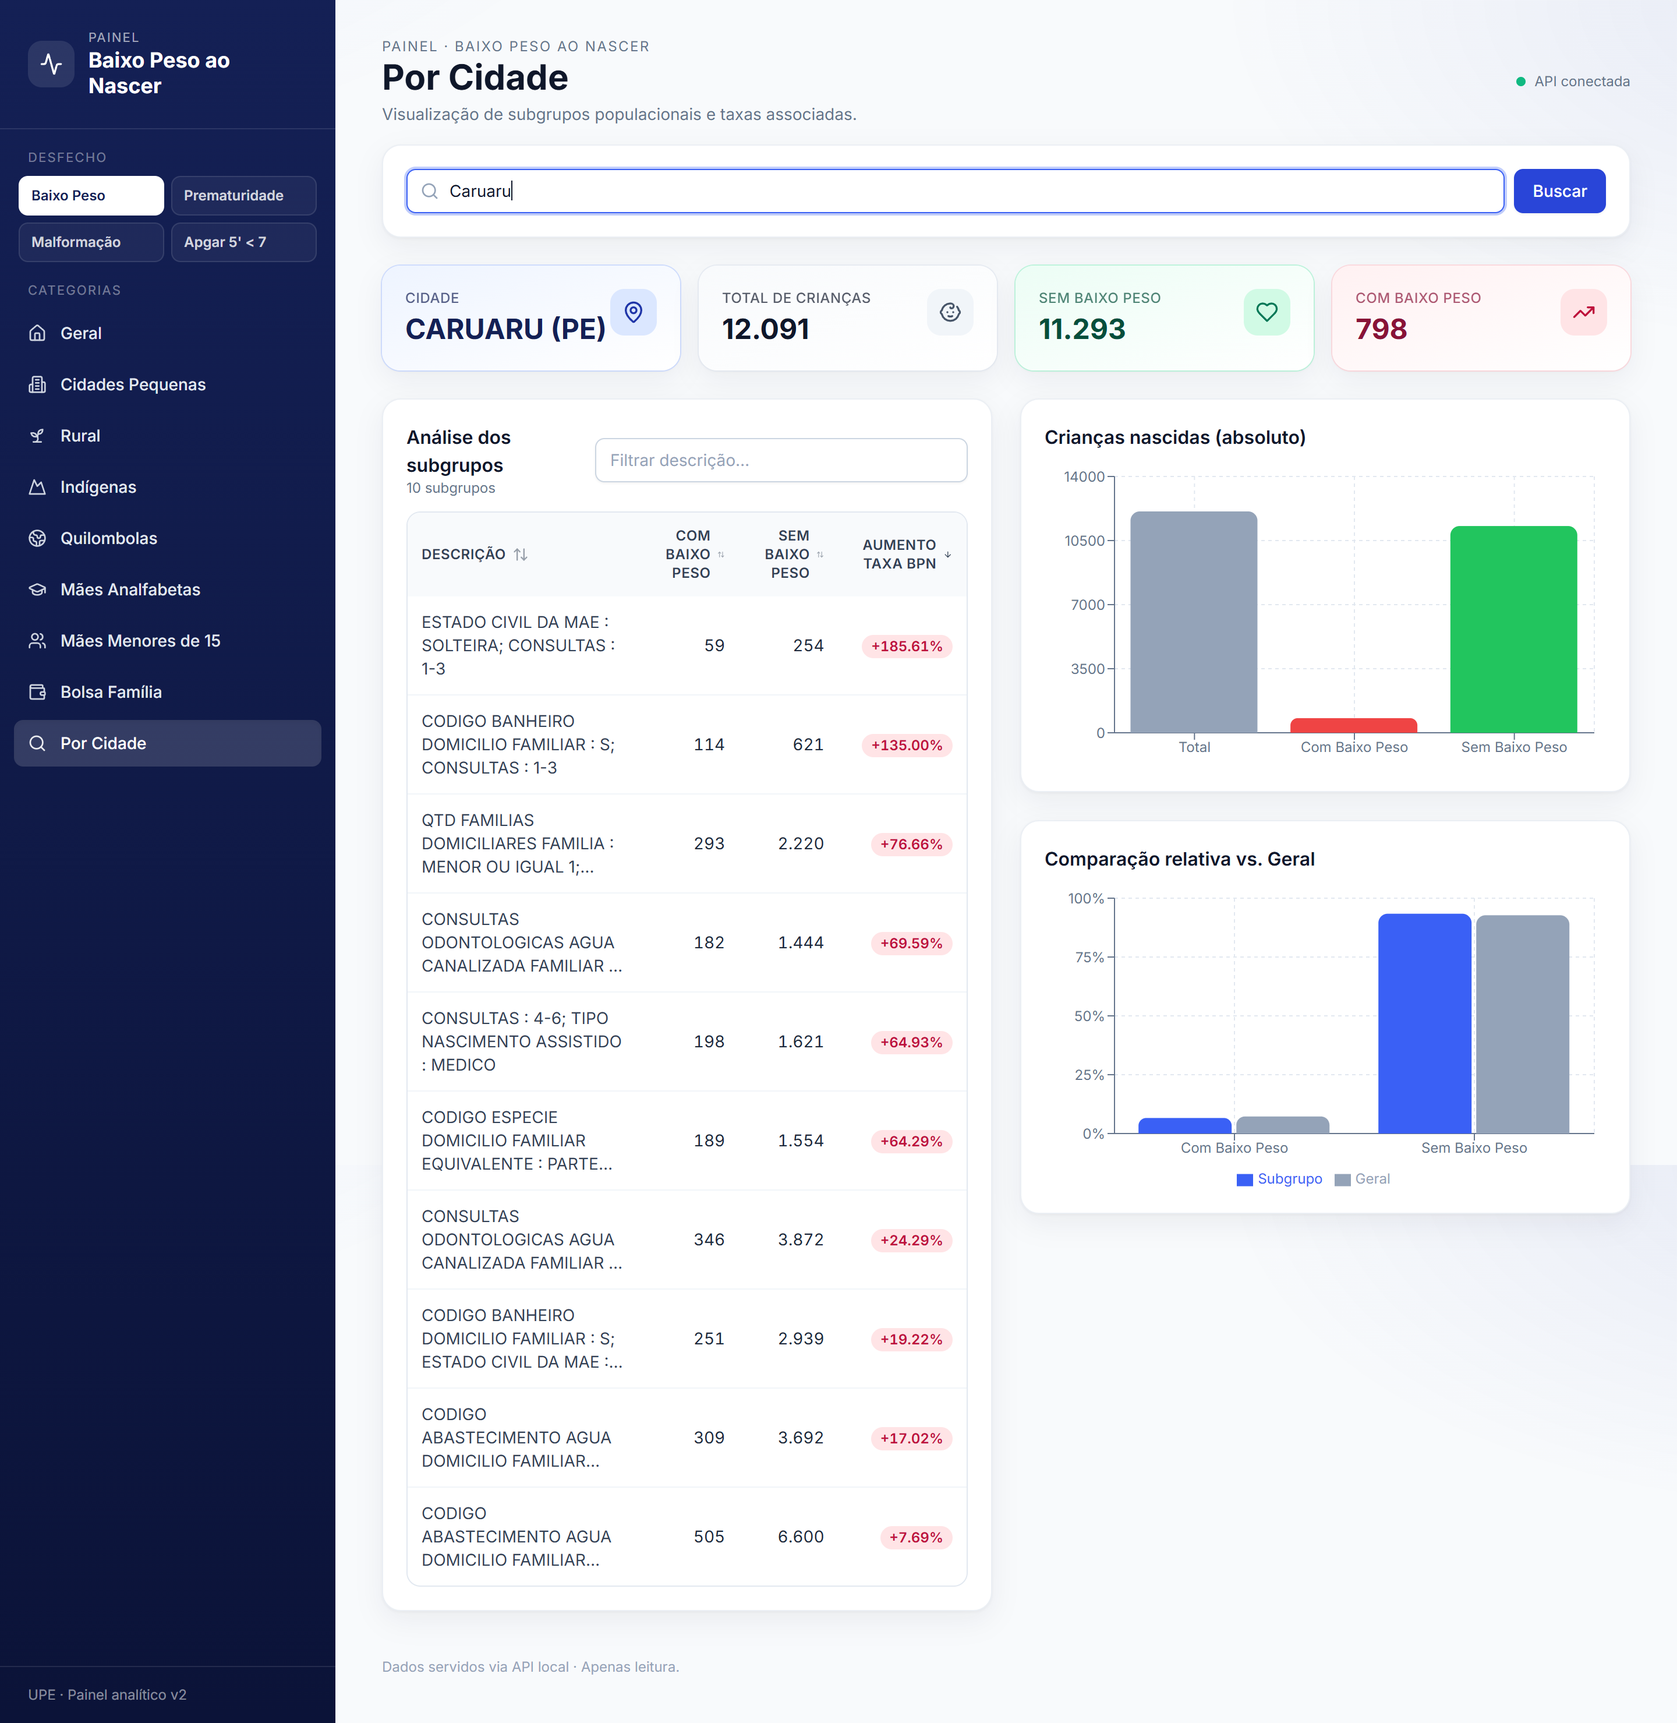
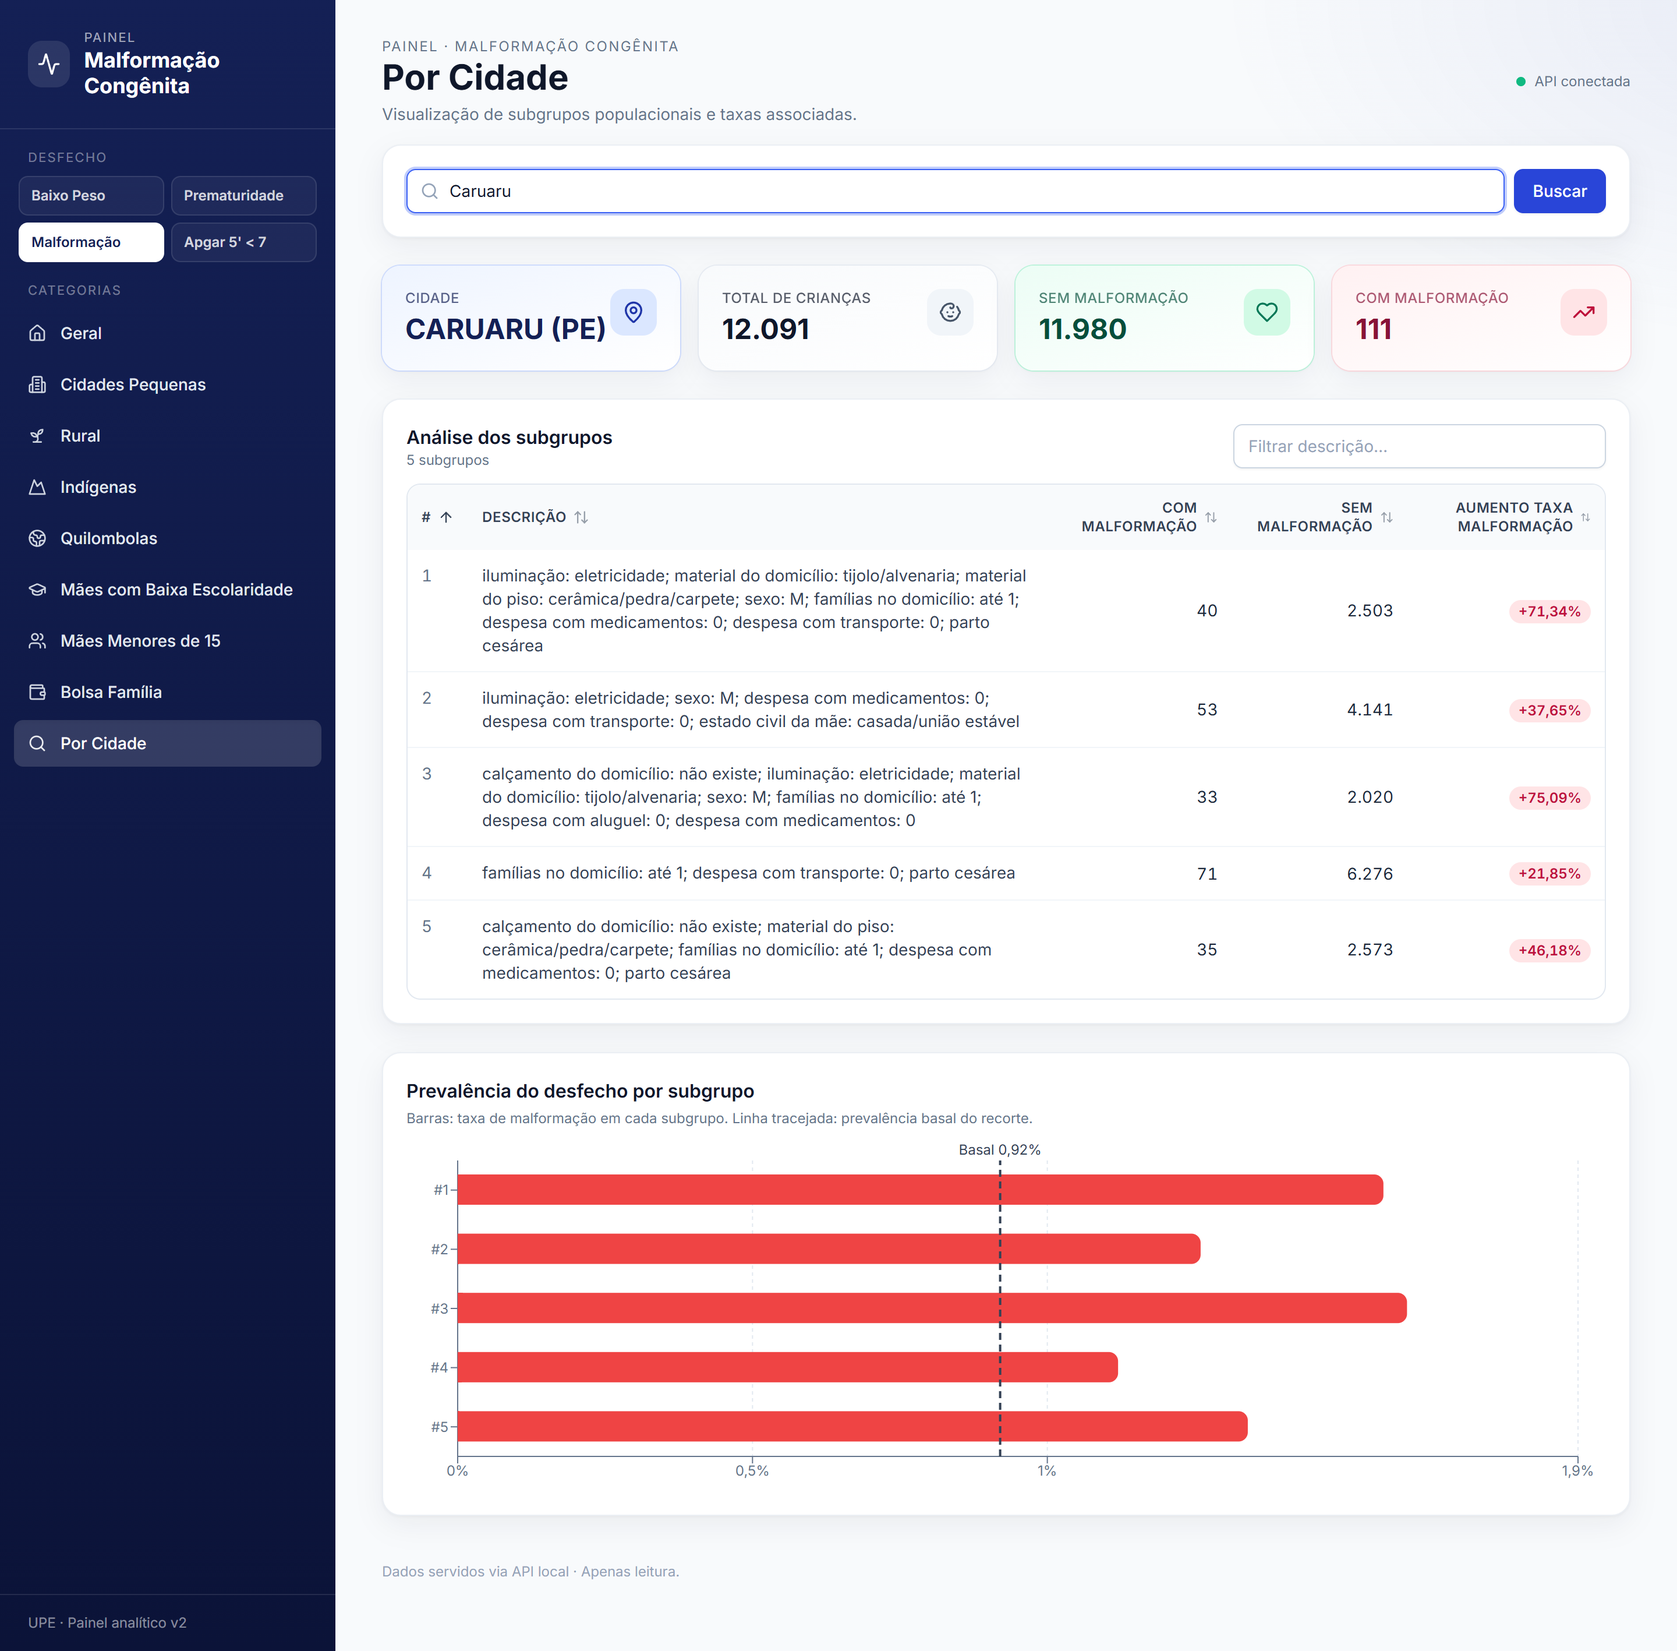
Ajusta resumo, painel e referências
- Resumo e abstract enxugados para caber nas 10 linhas da SBC.
- Metodologia: o painel passa a ser descrito como é hoje (TypeScript:
  API em Node.js/Express/Prisma, interface em React; Supabase, Render e
  Vercel), mostrando os mesmos cinco subgrupos das tabelas.
- Resultados: novo print do painel (Caruaru, malformação congênita) e
  texto refeito com os cinco subgrupos e o gráfico único.
- Referências conferidas nas fontes: anomalias congênitas "maiores"
  (Silvestri Melkan 2025), prematuridade como uma das principais causas
  de morte em menores de 5 anos (Ohuma 2023), UN IGME publicado em 2025,
  autoria corrigida em Magalhães 2023, entrada da OMS como página web e
  chave sobrando removida do .bib.

diff --git a/secoes/03-resultados.tex b/secoes/03-resultados.tex
@@ -21,17 +21,16 @@ Cada subgrupo é descrito por uma conjunção de atributos. As tabelas trazem, p
 
 \subsection{Painel de Visualização}
 
-Os subgrupos das 32 análises, além dos recortes por município, estão disponíveis no painel interativo descrito na Seção~\ref{subsec:met-dashboard}, acessível em \url{https://desfechos-neonatais.vercel.app/}. A Figura~\ref{fig:painel-caruaru} mostra a tela de consulta por município, tendo Caruaru (PE) como exemplo e o baixo peso ao nascer como desfecho.
+Os subgrupos das 32 análises, além dos recortes por município, estão disponíveis no painel interativo descrito na Seção~\ref{subsec:met-dashboard}, acessível em \url{https://desfechos-neonatais.vercel.app/}. A Figura~\ref{fig:painel-caruaru} mostra a tela de consulta por município, tendo Caruaru (PE) como exemplo e a malformação congênita como desfecho.
 
 \begin{figure}[H]
 \centering
 \includegraphics[width=\textwidth]{painel-caruaru}
-\caption{Painel de visualização: subgrupos de baixo peso ao nascer no município de Caruaru (PE).}\label{fig:painel-caruaru}
+\caption{Painel de visualização: subgrupos de malformação congênita no município de Caruaru (PE).}\label{fig:painel-caruaru}
 \end{figure}
 
-A navegação é feita por dois seletores, na barra lateral. O primeiro escolhe o desfecho (baixo peso, prematuridade, malformação ou Apgar no quinto minuto inferior a 7); o segundo escolhe a população, entre o recorte geral, os sete segmentos vulneráveis e a busca por município. Feita a escolha, o topo da tela resume a população selecionada em quatro indicadores: o nome do recorte, o total de nascimentos e quantos deles apresentaram ou não o desfecho. Em Caruaru, foram 12.091 nascimentos, dos quais 798 com baixo peso, o que corresponde a uma prevalência basal de 6,60\%.
+A navegação é feita por dois seletores, na barra lateral. O primeiro escolhe o desfecho (baixo peso, prematuridade, malformação ou Apgar no quinto minuto inferior a 7); o segundo escolhe a população, entre o recorte geral, os sete segmentos vulneráveis e a busca por município. Feita a escolha, o topo da tela resume a população selecionada em quatro indicadores: o nome do recorte, o total de nascimentos e quantos deles apresentaram ou não o desfecho. Em Caruaru, foram 12.091 nascimentos, dos quais 111 com malformação congênita, o que corresponde a uma prevalência basal de 0,92\%.
 
-Abaixo dos indicadores, a tabela de análise dos subgrupos lista as regras retornadas para aquela população. Para cada regra, informa o número de nascimentos com e sem o desfecho e o aumento da taxa em relação à prevalência basal do recorte, que corresponde ao \emph{lift} menos um, expresso em porcentagem. A tabela pode ser ordenada por qualquer coluna e filtrada por texto, de modo que o usuário localize, por exemplo, todas as regras que envolvem o número de consultas. Ao lado, dois gráficos de barras mostram os totais absolutos do recorte e a proporção de nascimentos com e sem o desfecho, comparada à do recorte geral.
+Abaixo dos indicadores, a tabela de análise lista os cinco subgrupos retornados para aquela população, numerados na ordem do SSDP+, da mesma forma que nas tabelas desta seção. Para cada regra, informa o número de nascimentos com e sem o desfecho e o aumento da taxa em relação à prevalência basal do recorte, que corresponde ao \emph{lift} menos um, expresso em porcentagem. A tabela pode ser ordenada por qualquer coluna e filtrada por texto, de modo que o usuário localize, por exemplo, todas as regras que envolvem o tipo de parto. Abaixo dela, um gráfico de barras mostra a prevalência do desfecho em cada subgrupo, com uma linha tracejada na prevalência basal do recorte: quanto mais a barra ultrapassa a linha, maior o \emph{lift} do subgrupo.
 
-O exemplo de Caruaru reproduz, em escala municipal, o padrão observado no baixo peso ao nascer em todo o país. O número de consultas de pré-natal aparece em seis das dez regras e está presente nas seis de maior risco. O subgrupo de maior risco reúne mãe solteira e 1 a 3 consultas: são 313 nascimentos, 59 deles com baixo peso, o que equivale a uma prevalência de 18,85\%, 186\% acima da basal do município (\emph{lift} de 2,86). A faixa de 1 a 3 consultas combinada à presença de banheiro no domicílio vem em seguida (135\% acima da basal), e as regras com a faixa de 4 a 6 consultas ficam entre 64\% e 77\% acima da basal. Assim, um gestor municipal pode identificar, em uma única consulta, que as gestantes com pré-natal incompleto, em especial as sem companheiro, são o grupo prioritário para ações de busca ativa no seu território.
-
+O exemplo de Caruaru reproduz, em escala municipal, o padrão observado na malformação congênita em todo o país, associado ao parto cesáreo, ao sexo masculino e a melhores condições de moradia. O parto cesáreo aparece em três das cinco regras (1, 4 e 5), o sexo masculino em outras três (1, 2 e 3), e itens como iluminação elétrica, domicílio de tijolo ou alvenaria e uma única família no domicílio se repetem entre elas. O subgrupo de maior risco (3) reúne ausência de calçamento, iluminação elétrica, domicílio de tijolo ou alvenaria, sexo masculino, uma única família no domicílio e despesas nulas com aluguel e medicamentos: são 2.053 nascimentos, 33 deles com malformação, o que equivale a uma prevalência de 1,61\%, 75\% acima da basal do município (\emph{lift} de 1,75). O subgrupo 1, com parto cesáreo e sexo masculino entre os seus itens, vem em seguida (71\% acima da basal), e a regra mais abrangente (4), com 6.347 nascimentos, combina parto cesáreo, uma única família no domicílio e despesa nula com transporte (22\% acima da basal). Assim, um gestor municipal pode identificar, em uma única consulta, os grupos em que a ocorrência do desfecho se concentra no seu território.

diff --git a/secoes/00b-resumo.tex b/secoes/00b-resumo.tex
@@ -5,9 +5,9 @@
 %% primeira página. O template SBC não tem campo de palavras-chave.
 
 \begin{abstract}
-  This study identifies characteristics associated with low birth weight, preterm birth, congenital anomaly and low 5-minute Apgar score in vulnerable Brazilian populations. The SSDP+ subgroup discovery algorithm was applied to more than 5 million births from 2011 to 2015 in the 100 Million Brazilian Cohort linked to SINASC, in the overall sample and seven vulnerable segments (32 analyses). Few prenatal visits were the most frequent risk factor for low birth weight, preterm birth and low Apgar score, reaching, alone, 2.03 times the baseline, and first pregnancy accompanied these three outcomes. Congenital anomaly showed a distinct pattern, marked by cesarean delivery, male sex and better household conditions. Mothers under 15 had the highest prevalences of low birth weight, preterm birth and anomaly, and home birth stood out among Indigenous births.
+  This study identifies characteristics associated with low birth weight, preterm birth, congenital anomaly and low 5-minute Apgar in vulnerable Brazilian populations. The SSDP+ subgroup discovery algorithm was applied to 5.2 million births from the 100 Million Brazilian Cohort linked to SINASC, in the overall sample and seven vulnerable segments. Few prenatal visits were the most frequent factor, reaching 2.03 times the baseline, except for anomaly, marked by cesarean delivery, male sex and better housing. Mothers under 15 had the highest prevalence of three outcomes.
 \end{abstract}
 
 \begin{resumo}
-  Este trabalho identifica características associadas ao baixo peso ao nascer, ao nascimento pré-termo, à malformação congênita e ao Apgar baixo no quinto minuto em populações vulneráveis do Brasil. Aplicou-se o algoritmo SSDP+ de descoberta de subgrupos a mais de 5 milhões de nascimentos de 2011 a 2015 da Coorte de 100 Milhões de Brasileiros vinculada ao SINASC, no recorte geral e em sete segmentos vulneráveis (32 análises). Poucas consultas de pré-natal foram o fator mais recorrente no baixo peso, no pré-termo e no Apgar baixo, chegando, isoladamente, a 2,03 vezes a basal, e a primeira gestação acompanhou esses três desfechos. A malformação teve padrão distinto, marcado por parto cesáreo, sexo masculino e melhores condições domiciliares. Mães menores de 15 anos tiveram as maiores prevalências de baixo peso, pré-termo e malformação, e o nascimento domiciliar se destacou entre indígenas.
+  Este trabalho identifica características associadas ao baixo peso ao nascer, ao pré-termo, à malformação congênita e ao Apgar baixo no quinto minuto em populações vulneráveis do Brasil. O algoritmo SSDP+ de descoberta de subgrupos foi aplicado a 5,2 milhões de nascimentos da Coorte de 100 Milhões de Brasileiros vinculada ao SINASC, no recorte geral e em sete segmentos vulneráveis. Poucas consultas de pré-natal foram o fator mais recorrente, chegando a 2,03 vezes a basal, exceto na malformação, marcada por parto cesáreo, sexo masculino e melhores condições de moradia. Mães menores de 15 anos tiveram a maior prevalência em três desfechos.
 \end{resumo}

diff --git a/secoes/02-metodologia.tex b/secoes/02-metodologia.tex
@@ -153,7 +153,7 @@ de modo que um \emph{lift} de 1,25 indica prevalência 25\% acima da basal daque
 \subsection{Painel de visualização}\label{subsec:met-dashboard}
 %%---------------------------------------------------------------------%%
 
-Para tornar os resultados acessíveis a gestores e profissionais de saúde, os subgrupos retornados foram disponibilizados em um painel interativo. A construção seguiu quatro etapas. Primeiro, os arquivos gerados pelas execuções do SSDP+ foram consolidados e tratados por rotinas em Python, que uniformizaram as descrições das regras e associaram cada resultado ao seu desfecho e ao seu recorte. Em seguida, os dados consolidados foram convertidos em comandos de inserção e carregados em um banco de dados relacional PostgreSQL. A terceira etapa consistiu no desenvolvimento de uma API REST, em Java com Spring Boot, responsável por servir as consultas do painel. Por fim, a interface foi implementada em HTML, CSS e JavaScript, a partir de protótipos elaborados no Figma e de princípios de narrativa com dados \cite{knaflic2015}.
+Para tornar os resultados acessíveis a gestores e profissionais de saúde, os subgrupos retornados foram disponibilizados em um painel interativo, desenvolvido inteiramente em TypeScript. A construção seguiu quatro etapas. Primeiro, a planilha com os resultados das 32 buscas e os arquivos das execuções por município foram tratados por rotinas em Python, que uniformizaram as descrições das regras, associaram cada resultado ao seu desfecho e ao seu recorte e geraram os comandos de inserção. Em seguida, esses dados foram carregados em um banco de dados relacional PostgreSQL. A terceira etapa consistiu no desenvolvimento de uma API REST em Node.js, com Express e o mapeamento objeto-relacional Prisma, responsável por servir as consultas do painel. Por fim, a interface foi implementada em React, com Tailwind CSS e gráficos em Recharts, seguindo princípios de narrativa com dados \cite{knaflic2015}. O banco está hospedado no Supabase, a API no Render e a interface na Vercel.
 
-O painel permite selecionar o desfecho e o recorte e exibe, para a combinação escolhida, os subgrupos retornados com a sua cobertura e o seu risco relativo, ao lado dos totais do recorte. Dessa forma, informações que exigiriam o processamento manual de dezenas de arquivos ficam disponíveis em uma única consulta, o que favorece comparações entre recortes e a tomada de decisão baseada em dados. 
+O painel permite selecionar o desfecho e o recorte e exibe, para a combinação escolhida, os cinco subgrupos retornados pelo SSDP+, os mesmos reportados na Seção~\ref{sec:resultados}, com o número de nascimentos com e sem o desfecho e o risco relativo de cada um, ao lado dos totais do recorte. Dessa forma, informações que exigiriam o processamento manual de dezenas de arquivos ficam disponíveis em uma única consulta, o que favorece comparações entre recortes e a tomada de decisão baseada em dados.
 Além dos recortes populacionais descritos neste artigo, o painel inclui também recortes por município brasileiro em que houve mais de 10 casos dos desfechos considerados.

diff --git a/secoes/introducao/03-malformacao.tex b/secoes/introducao/03-malformacao.tex
@@ -3,6 +3,6 @@
 %\subsection{Malformação congênita}\label{subsec:intro-malf}
 
 As malformações congênitas, ou anomalias congênitas, são alterações estruturais ou funcionais que se originam durante a vida intrauterina e podem ser identificadas antes do nascimento, ao nascer ou mais tarde na infância \cite{who2023congenital}. Estima-se que cerca de 240 mil recém-nascidos morram por ano no mundo, nos primeiros 28 dias de vida, em decorrência delas, além de outras 170 mil mortes entre um mês e cinco anos de idade \cite{who2023congenital}. A maioria não tem causa conhecida, e as anomalias graves concentram-se nos países de baixa e média renda \cite{who2023congenital}.
-No Brasil, a presença de anomalia congênita ao nascer foi de 8,0 por mil nascidos vivos, valor que os autores consideram afetado pela detecção pré-natal limitada e pela subnotificação \cite{melkan2025}.
+No Brasil, entre 2011 e 2020, a prevalência de anomalias congênitas maiores ao nascer foi de 8,0 por mil nascidos vivos, valor que os autores consideram afetado pela detecção pré-natal limitada e pela subnotificação \cite{melkan2025}.
 
 %No Brasil, a presença de anomalia congênita é registrada na declaração de nascido vivo. Entre 2011 e 2020, a prevalência ao nascer foi de 8,0 por mil nascidos vivos, valor que os autores consideram afetado pela detecção pré-natal limitada e pela subnotificação \cite{melkan2025}. Ainda que fatores genéticos e biológicos tenham papel central, há associação com condições sociais: em âmbito nacional, a chance de anomalia congênita foi maior entre filhos de mães pretas, sem consultas de pré-natal, com mais de 40 anos e em gestações múltiplas \cite{fernandes2025}. Na epidemia de Zika, os casos da síndrome congênita concentraram-se entre as mulheres socialmente mais vulneráveis \cite{paixao2022}.

diff --git a/secoes/introducao/02-pre-termo.tex b/secoes/introducao/02-pre-termo.tex
@@ -2,7 +2,7 @@
 
 %\subsection{Nascimento pré-termo}\label{subsec:intro-pt}
 
-Já o nascimento pré-termo é definido quando ocorre antes de 37 semanas completas de gestação. A prematuridade é a principal causa de mortalidade neonatal e está associada a efeitos de longo prazo sobre a saúde física, o neurodesenvolvimento e as condições socioeconômicas dos que sobrevivem \cite{ohuma2023}. Estima-se que 13,4 milhões de crianças nasceram pré-termo no mundo em 2020, 9,9\% de todos os nascimentos, sem mudança mensurável em relação a 2010 \cite{ohuma2023}.
+Já o nascimento pré-termo é definido quando ocorre antes de 37 semanas completas de gestação. A prematuridade é uma das principais causas de morte de crianças menores de cinco anos e está associada a efeitos de longo prazo sobre a saúde física, o neurodesenvolvimento e as condições socioeconômicas dos que sobrevivem \cite{ohuma2023}. Estima-se que 13,4 milhões de crianças nasceram pré-termo no mundo em 2020, 9,9\% de todos os nascimentos, sem mudança mensurável em relação a 2010 \cite{ohuma2023}.
 
 %No Brasil, a prevalência de nascimentos pré-termo foi de 11,1\% entre 2011 e 2021 \cite{alberton2023} e passou de 11,3\% em 2014 para 11,9\% em 2023 \cite{victor2025}, acima da média mundial. As maiores prevalências recaem sobre mulheres indígenas e pretas, com menor escolaridade, nas idades extremas e com poucas consultas de pré-natal, e sobre as regiões Norte e Nordeste \cite{alberton2023,victor2025}.
 
